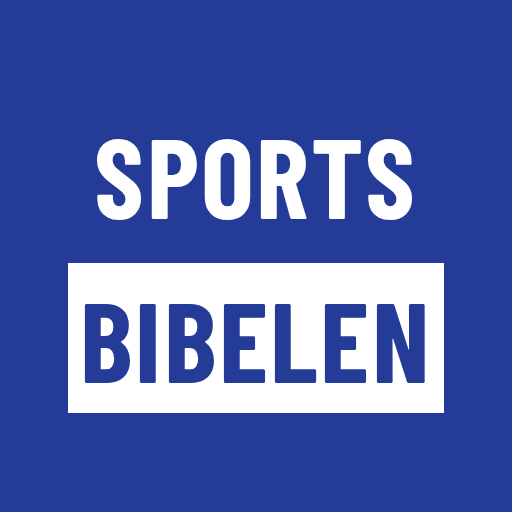
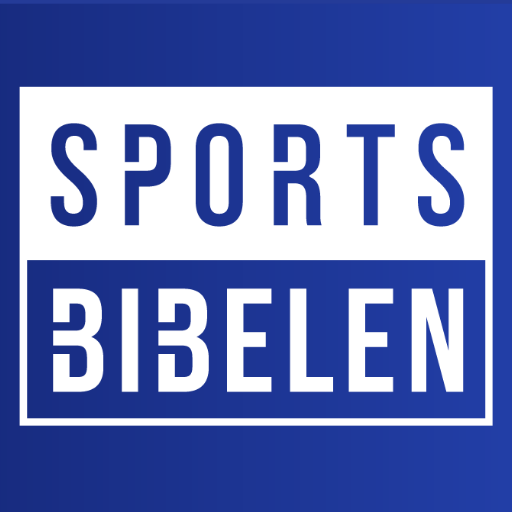
Bruk de ekte logofilene i toppen og som ikon
Logoen i toppen er na SB-logos-h-whiteonblue.png, og ikonene for
hjemskjerm er generert fra SB-logos-v-whiteonblue.png. Min CSS-gjenskaping
er fjernet.

Toppfeltet er gjort ensfarget i logoens egen blatone #243B98. Med gradient
motte ikke logofilens innebygde bakgrunn feltet, og det ble en synlig
kant rundt merket. theme-color og manifestet er samordnet med samme verdi,
sa nettleserramme og oppstartsskjerm folger logoen.

Ikonet lar logoens egen gradient fylle hele flaten framfor a sentrere
logoen pa en flat bakgrunn, som ga en synlig firkant i ikonet.

En svak kant er fortsatt synlig rundt logoen i toppen, fordi fila har en
gradient bakt inn som lysner mot hoyre mens feltet er ensfarget. En
logofil med gjennomsiktig bakgrunn, eller en SVG, ville fjernet den helt.

Claude-Session: https://claude.ai/code/session_01T9RV8QWGVGJsGaN9gG6ahW

diff --git a/index.html b/index.html
@@ -5,7 +5,7 @@
 <meta name="viewport" content="width=device-width, initial-scale=1.0">
 <title>Sportsbibelen</title>
 <link rel="manifest" href="/manifest.webmanifest">
-<meta name="theme-color" content="#1B2A87">
+<meta name="theme-color" content="#243B98">
 <link rel="apple-touch-icon" href="/icons/icon-180.png">
 <meta name="apple-mobile-web-app-capable" content="yes">
 <meta name="apple-mobile-web-app-title" content="Sportsbibelen">
@@ -75,7 +75,7 @@
     --overlay-scrim: rgba(10,18,45,0.55);
 
     /* Toppfeltet og det som ligger oppa det. */
-    --header-bg:     linear-gradient(100deg, #1B2A87 0%, #2A50D8 100%);
+    --header-bg:     #243B98;
     --header-border: transparent;
     --on-brand:      #FFFFFF;
     --on-brand-dim:  #BFD0FF;
@@ -419,32 +419,18 @@
     flex-shrink: 0;
   }
 
-  /* Ordmerket fra nettsiden: hvit ramme, SPORTS hvit pa bla og BIBELEN
-     bla pa hvit blokk. */
+  /* Den ekte logofila. Den har sin egen gradient bakt inn, sa toppfeltet
+     bruker de samme fargene for at skjoten ikke skal synes. */
   .logo {
-    display: inline-flex;
-    align-items: stretch;
+    display: block;
     margin: 0;
-    border: 2px solid var(--on-brand);
-    border-radius: 2px;
-    overflow: hidden;
-    font-family: 'Barlow Condensed', sans-serif;
-    font-weight: 700;
-    font-size: 17px;
-    line-height: 1;
-    letter-spacing: 0.04em;
+    line-height: 0;
   }
 
-  .logo-a {
-    padding: 5px 6px 4px 7px;
-    background: var(--on-brand);
-    color: var(--logo-ink);
-  }
-
-  .logo-b {
-    padding: 5px 7px 4px 6px;
-    border-left: 2px solid var(--on-brand);
-    color: var(--on-brand);
+  .logo img {
+    display: block;
+    height: 30px;
+    width: auto;
   }
 
   .feed {
@@ -904,7 +890,7 @@
                 aria-label="Åpne meny" aria-expanded="false" aria-controls="menuPanel">
           <span class="bars" aria-hidden="true"></span>
         </button>
-        <h1 class="logo"><span class="logo-a">SPORTS</span><span class="logo-b">BIBELEN</span></h1>
+        <h1 class="logo"><img src="/SB-logos-h-whiteonblue.png" alt="Sportsbibelen"></h1>
         <span class="filter-tag" id="filterTag"></span>
       </div>
     </div>
